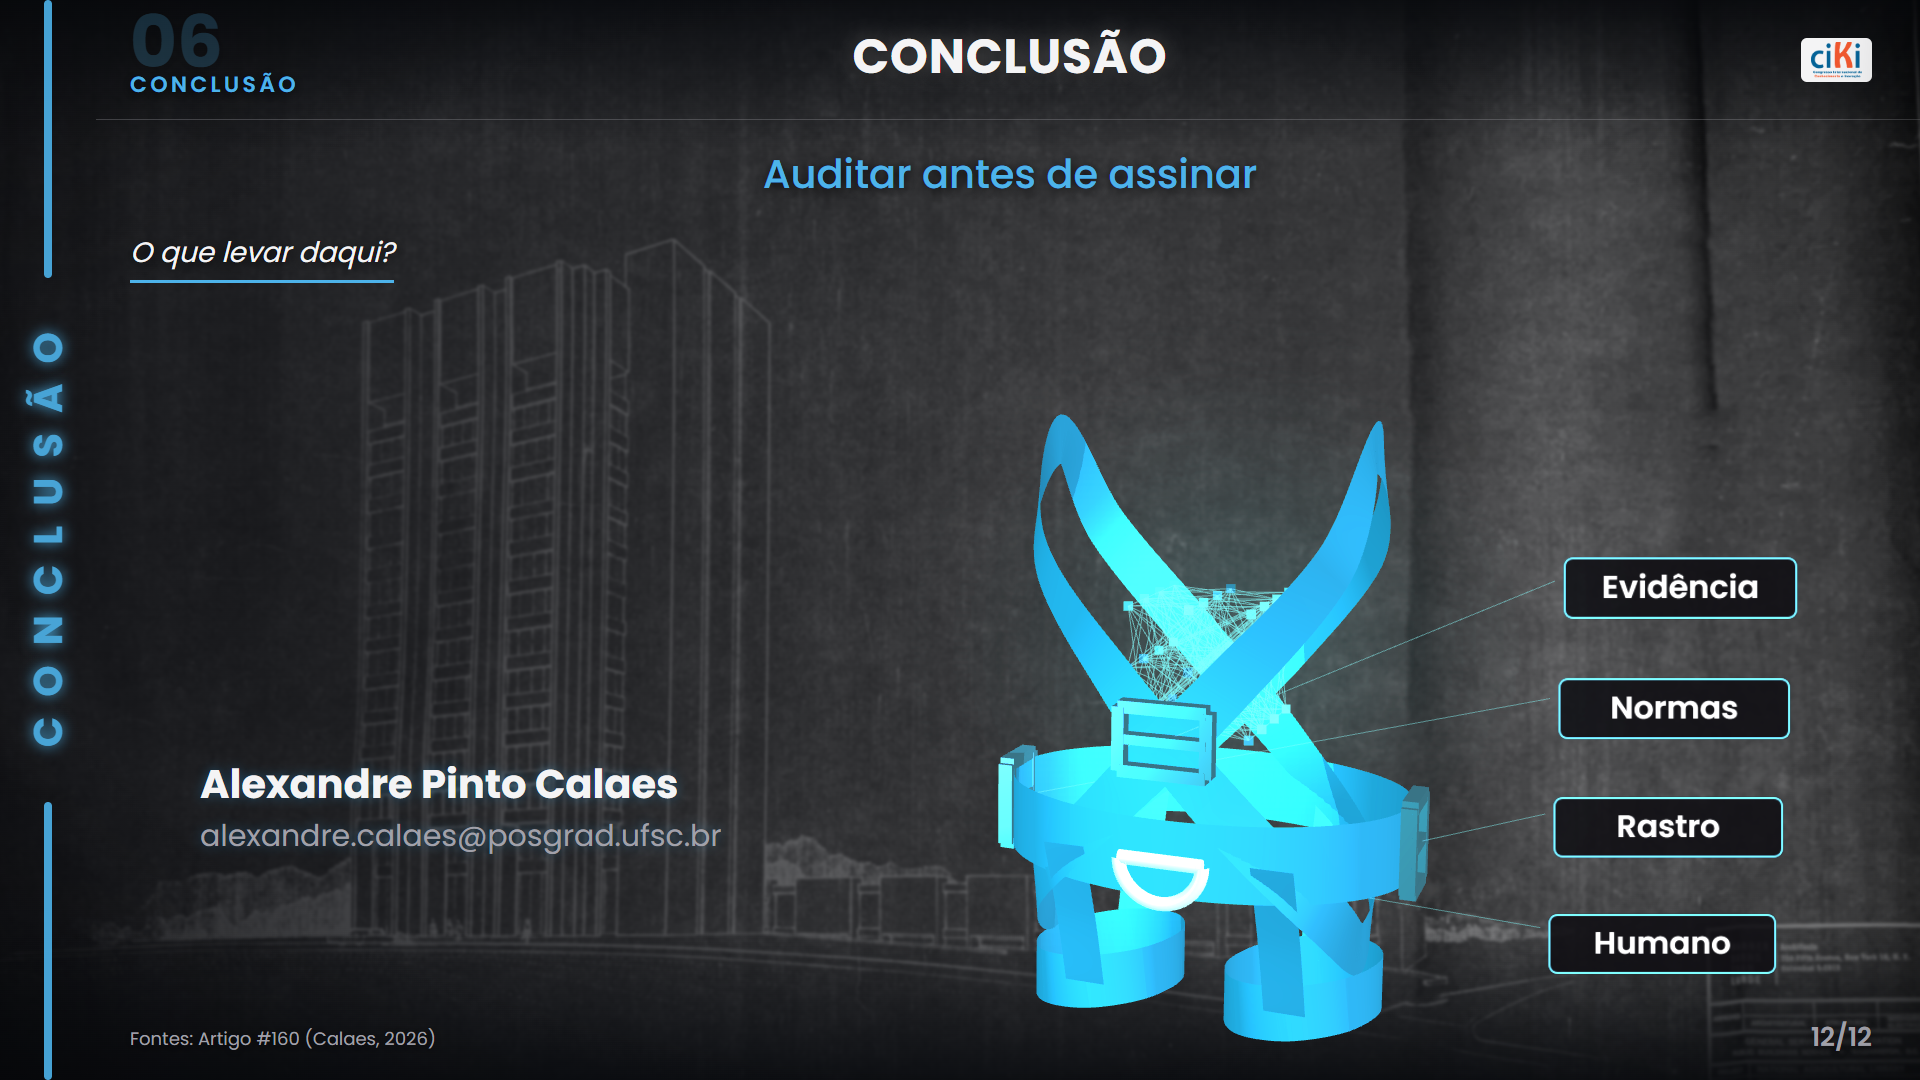
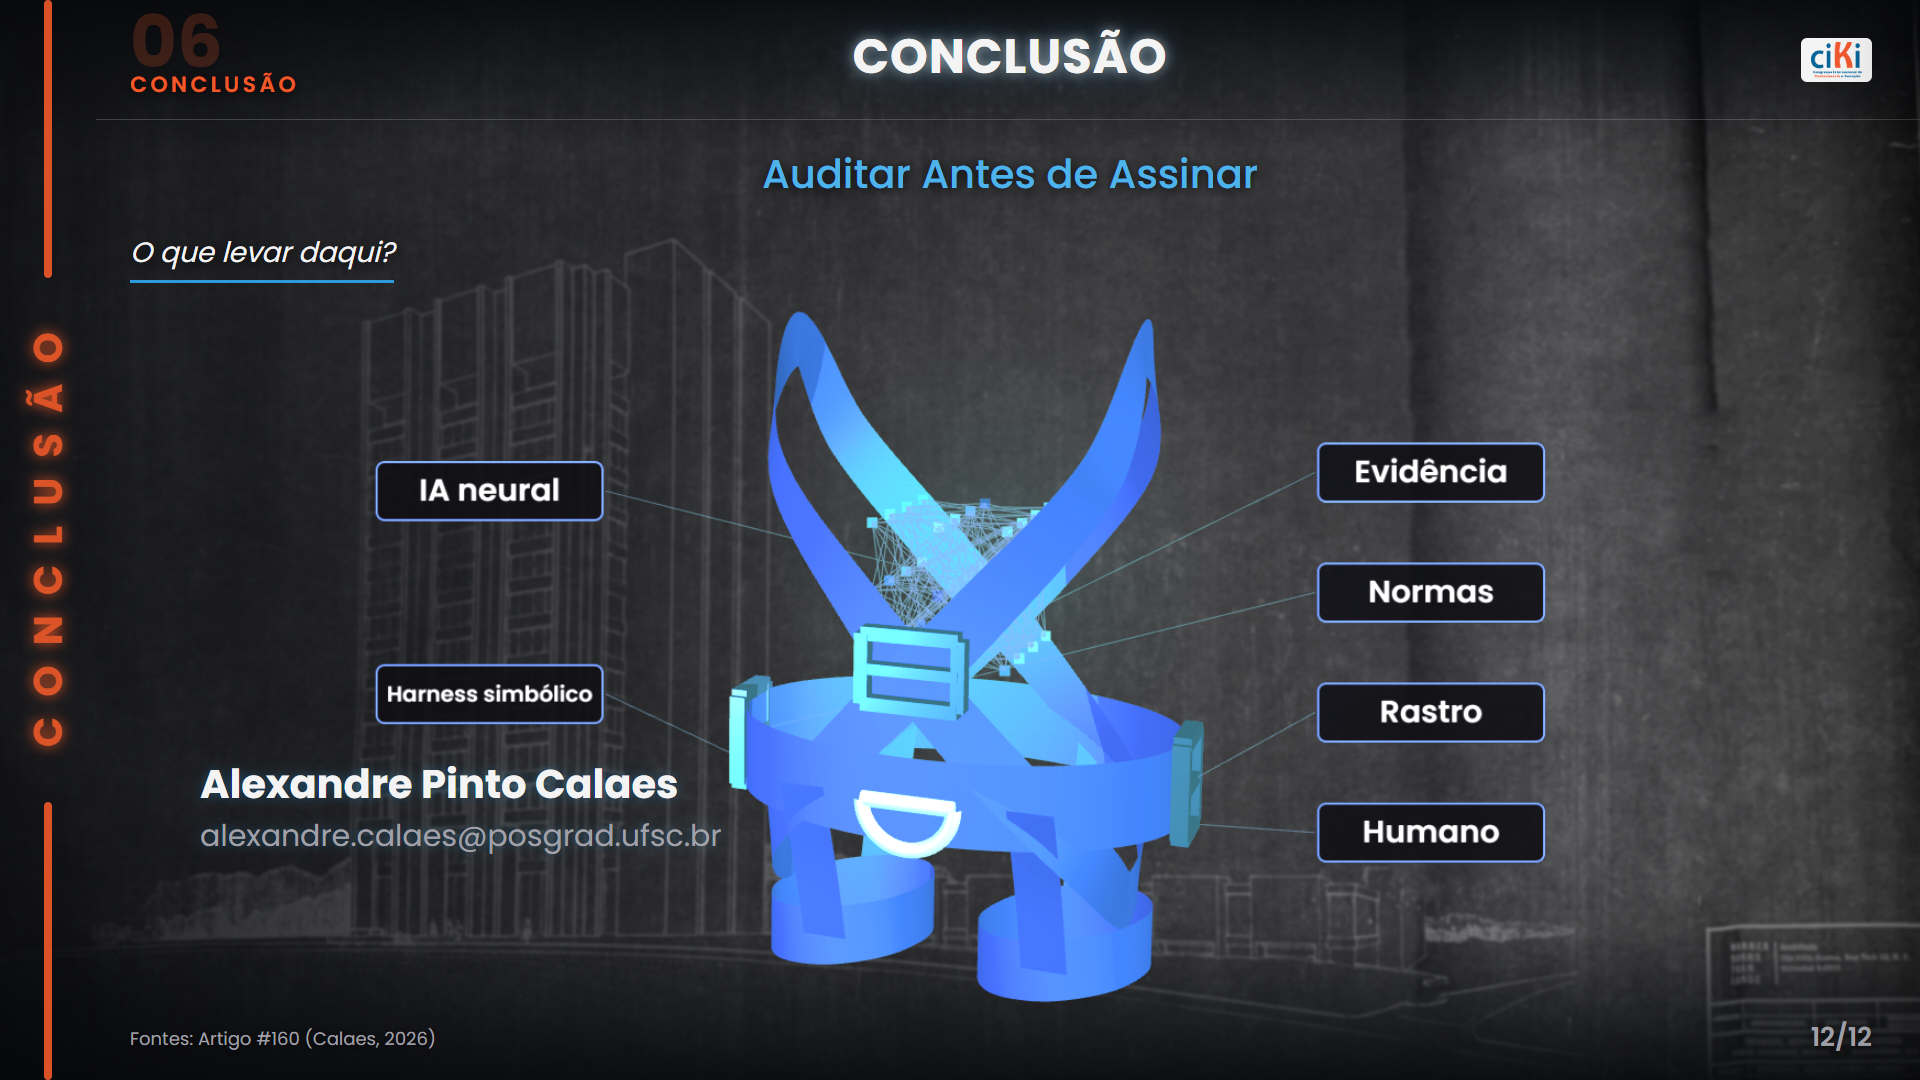
Fecho: arnês 3D centralizado e ampliado

diff --git a/web/deck.css b/web/deck.css
@@ -253,3 +253,7 @@ body.reduzir-movimento *{animation:none!important;transition:none!important}
 .hlcap b{font-size:28px}
 /* slide 1: a resposta à pergunta fica à direita da imagem, com o mesmo traço azul do título da figura */
 .figl{left:1330px;top:360px;width:470px;text-align:left;font:600 26px/1.3 var(--fd);color:var(--texto);border-left:4px solid var(--teal);padding-left:18px}
+/* slide 1: resposta à direita, espelhada: traço azul no FIM da frase, texto alinhado à direita */
+.figl{left:1320px;width:470px;text-align:right;border-left:0;padding-left:0;border-right:4px solid var(--teal);padding-right:18px}
+/* slide 12: o arnês é o destaque do fecho, centralizado e ampliado (mesmo enquadramento da capa) */
+.s12 .fxslot{transform-origin:1208px 1040px;transform:translate(-248px,-40px) scale(1.1)}

diff --git a/web/index.html b/web/index.html
@@ -7,7 +7,7 @@
 <link rel="stylesheet" href="fonts/poppins.css">
 <link rel="stylesheet" href="fonts/notosansmath.css">
 <link rel="stylesheet" href="kit.css">
-<link rel="stylesheet" href="deck.css?v=14">
+<link rel="stylesheet" href="deck.css?v=16">
 <link rel="stylesheet" href="matrix8.css">
 <link rel="stylesheet" href="paineis.css">
 </head>
